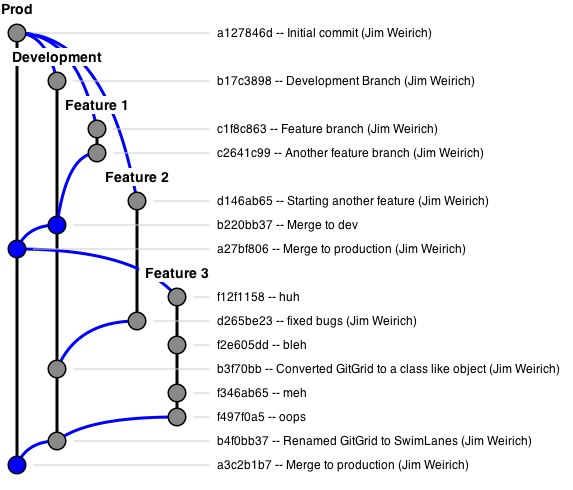
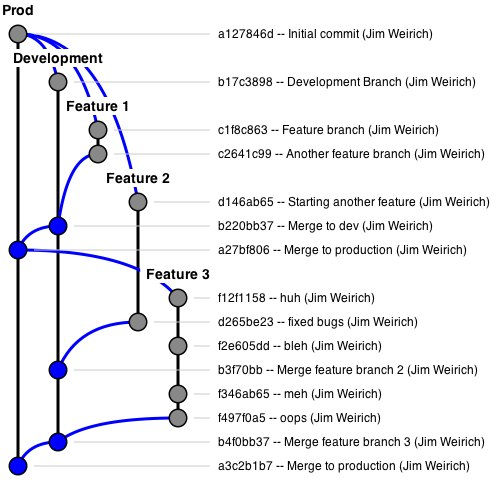
Improved sample data

diff --git a/x.js b/x.js
@@ -13,16 +13,16 @@ function drawGrid() {
   sl.addCommit('c2641c99', 2, 'Another feature branch (Jim Weirich)');
   sl.addBranch("Feature 2", 3);
   sl.addCommit('d146ab65', 3, 'Starting another feature (Jim Weirich)');
-  sl.addCommit('b220bb37', 1, "Merge to dev", 'm');
+  sl.addCommit('b220bb37', 1, 'Merge to dev (Jim Weirich)', 'm');
   sl.addCommit('a27bf806', 0, 'Merge to production (Jim Weirich)', 'm');
   sl.addBranch("Feature 3", 4);
-  sl.addCommit('f12f1158', 4, 'huh');
+  sl.addCommit('f12f1158', 4, 'huh (Jim Weirich)');
   sl.addCommit('d265be23', 3, 'fixed bugs (Jim Weirich)');
-  sl.addCommit('f2e605dd', 4, 'bleh');
-  sl.addCommit('b3f70bb', 1, 'Converted GitGrid to a class like object (Jim Weirich)');
-  sl.addCommit('f346ab65', 4, 'meh');
-  sl.addCommit('f497f0a5', 4, 'oops');
-  sl.addCommit('b4f0bb37', 1, 'Renamed GitGrid to SwimLanes (Jim Weirich)');
+  sl.addCommit('f2e605dd', 4, 'bleh (Jim Weirich)');
+  sl.addCommit('b3f70bb', 1, 'Merge feature branch 2 (Jim Weirich)', 'm');
+  sl.addCommit('f346ab65', 4, 'meh (Jim Weirich)');
+  sl.addCommit('f497f0a5', 4, 'oops (Jim Weirich)');
+  sl.addCommit('b4f0bb37', 1, 'Merge feature branch 3 (Jim Weirich)', 'm');
   sl.addCommit('a3c2b1b7', 0, 'Merge to production (Jim Weirich)', 'm');
 
   sl.connect('a127846d', 'a27bf806');

diff --git a/README.md b/README.md
@@ -31,9 +31,7 @@ the result of my Whyday efforts.
 
 The above graph was generated from the following data:
 
-<pre>
-
-function drawGrid() {
+<pre>function drawGrid() {
   var sl = new SwimLanes();
 
   sl.drawOn("canvas", 1000, 800);
@@ -47,16 +45,16 @@ function drawGrid() {
   sl.addCommit('c2641c99', 2, 'Another feature branch (Jim Weirich)');
   sl.addBranch("Feature 2", 3);
   sl.addCommit('d146ab65', 3, 'Starting another feature (Jim Weirich)');
-  sl.addCommit('b220bb37', 1, "Merge to dev", 'm');
+  sl.addCommit('b220bb37', 1, 'Merge to dev (Jim Weirich)', 'm');
   sl.addCommit('a27bf806', 0, 'Merge to production (Jim Weirich)', 'm');
   sl.addBranch("Feature 3", 4);
-  sl.addCommit('f12f1158', 4, 'huh');
+  sl.addCommit('f12f1158', 4, 'huh (Jim Weirich)');
   sl.addCommit('d265be23', 3, 'fixed bugs (Jim Weirich)');
-  sl.addCommit('f2e605dd', 4, 'bleh');
-  sl.addCommit('b3f70bb', 1, 'Converted GitGrid to a class like object (Jim Weirich)');
-  sl.addCommit('f346ab65', 4, 'meh');
-  sl.addCommit('f497f0a5', 4, 'oops');
-  sl.addCommit('b4f0bb37', 1, 'Renamed GitGrid to SwimLanes (Jim Weirich)');
+  sl.addCommit('f2e605dd', 4, 'bleh (Jim Weirich)');
+  sl.addCommit('b3f70bb', 1, 'Merge feature branch 2 (Jim Weirich)', 'm');
+  sl.addCommit('f346ab65', 4, 'meh (Jim Weirich)');
+  sl.addCommit('f497f0a5', 4, 'oops (Jim Weirich)');
+  sl.addCommit('b4f0bb37', 1, 'Merge feature branch 3 (Jim Weirich)', 'm');
   sl.addCommit('a3c2b1b7', 0, 'Merge to production (Jim Weirich)', 'm');
 
   sl.connect('a127846d', 'a27bf806');
@@ -89,4 +87,4 @@ function drawGrid() {
 
 # TODO
 
-* Write some Ruby code to get a real git repository in that format.
+* Write some Ruby code to actually get a real git repository in that format.
